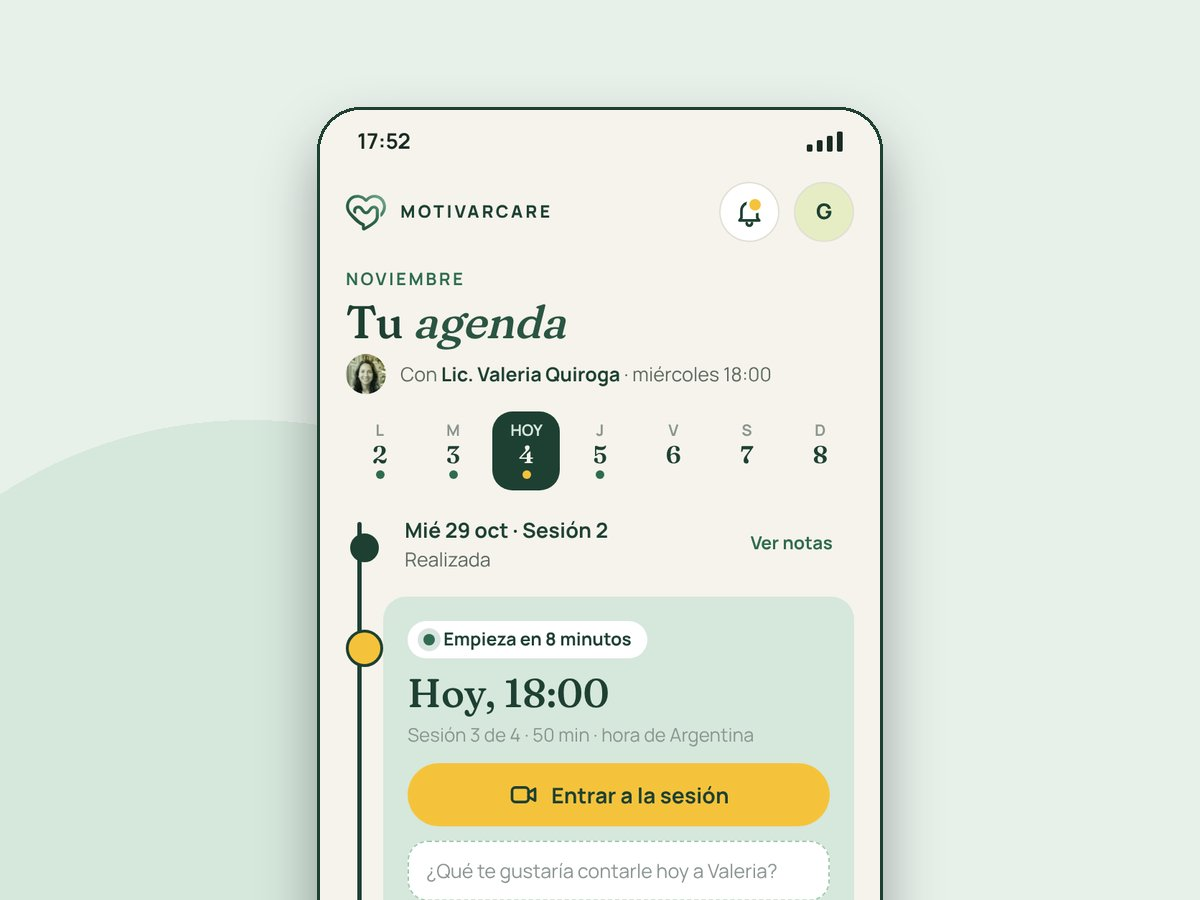
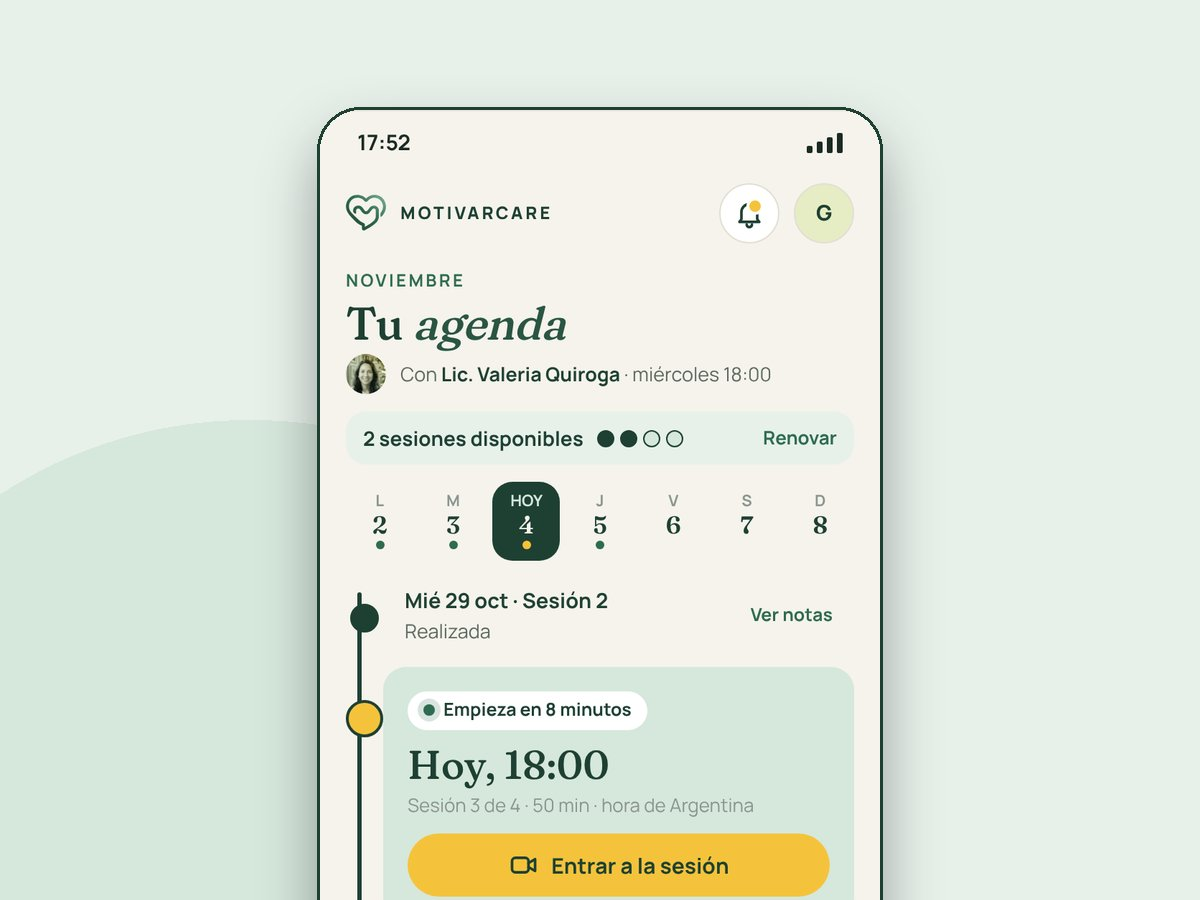
App del usuario: familia 2 con las sesiones disponibles y el Inicio sin profesional
- El Inicio de la agenda suma el contador de sesiones disponibles, con
  "Renovar" (escritorio y teléfono).
- Mockup nuevo: el Inicio de quien todavía no eligió profesional, con el
  camino a la primera sesión y los horarios libres de los sugeridos.

Claude-Session: https://claude.ai/code/session_01WU1DRv73FL9hgnWuzdh2zM

diff --git a/web/public/app-usuario/agenda.html b/web/public/app-usuario/agenda.html
@@ -397,6 +397,58 @@ ul.lista-simple { padding: 0; }
 .ag-fila.hoy .cuando { font: 500 28px/1.05 var(--serif); font-variation-settings: 'SOFT' 60; color: var(--bosque); }
 .ag-mini { font-size: 12.5px; font-weight: 700; color: var(--verde-medio); white-space: nowrap; }
 .nav-tel.cuatro { grid-template-columns: repeat(4, 1fr); }
+.ag-saldo { display: flex; align-items: center; gap: 12px; padding: 8px 16px 8px 14px; border-radius: 16px; background: var(--menta); }
+.ag-saldo .numero { font: 500 32px/1 var(--serif); color: var(--bosque); }
+.ag-saldo b { display: block; font-size: 14px; color: var(--bosque); line-height: 1.2; }
+.ag-saldo .puntos { margin-top: 5px; gap: 5px; }
+.ag-saldo .puntos span { width: 14px; height: 14px; }
+.ag-saldo.vacio-saldo { background: transparent; border: 1.5px dashed var(--salvia-fuerte); }
+.ag-saldo-tel { display: flex; align-items: center; gap: 10px; padding: 8px 12px; border-radius: 14px; background: var(--menta); font-size: 13px; color: var(--tinta-suave); }
+.ag-saldo-tel b { color: var(--bosque); font-size: 14px; }
+.ag-saldo-tel .puntos { margin: 0; gap: 4px; }
+.ag-saldo-tel .puntos span { width: 12px; height: 12px; }
+.ag-pista.cuatro { grid-template-columns: repeat(4, 1fr); }
+.ag-pista.cuatro::before { left: 12.5%; right: 62.5%; }
+.ag-pista.cuatro::after { left: 37.5%; right: 12.5%; }
+.ag-elegir { display: grid; grid-template-columns: 1.75fr 1fr; gap: 18px; margin-top: 18px; }
+.ag-libres { padding: 22px 24px; }
+.ag-libres h2 { font: 600 19px/1.2 var(--serif); font-variation-settings: 'SOFT' 60; color: var(--bosque); }
+.ag-filtros { display: flex; gap: 8px; margin: 14px 0 16px; flex-wrap: wrap; }
+.ag-filtro { display: inline-flex; align-items: center; gap: 8px; height: 38px; padding: 0 14px 0 5px; border-radius: 99px; border: 1px solid var(--linea); background: var(--superficie); font-size: 13.5px; font-weight: 700; color: var(--bosque); }
+.ag-filtro.solo { padding: 0 14px; }
+.ag-filtro.on { background: var(--bosque); color: var(--crema); border-color: var(--bosque); }
+.ag-filtro small { font-weight: 600; color: var(--verde-medio); }
+.ag-cal { display: grid; grid-template-columns: repeat(7, 1fr); gap: 8px; }
+.ag-cal .col { display: flex; flex-direction: column; gap: 6px; }
+.ag-cal .dia { text-align: center; padding-bottom: 6px; border-bottom: 1px solid var(--linea); margin-bottom: 2px; }
+.ag-cal .dia span { display: block; font: 700 11px/1 var(--sans); letter-spacing: .12em; text-transform: uppercase; color: var(--tinta-tenue); }
+.ag-cal .dia b { font: 600 19px/1.3 var(--serif); color: var(--bosque); }
+.ag-slot { display: flex; align-items: center; gap: 6px; padding: 5px 7px 5px 5px; border-radius: 99px; border: 1.5px dashed var(--bosque); background: rgba(255,255,255,.6); font-size: 13px; font-weight: 800; color: var(--bosque); }
+.ag-slot img { width: 22px; height: 22px; border-radius: 50%; object-fit: cover; }
+.ag-slot.sel { background: var(--bosque); color: var(--crema); border-style: solid; box-shadow: 0 0 0 4px rgba(245,195,59,.45); }
+.ag-cal .nada { font-size: 12px; color: var(--tinta-tenue); text-align: center; padding-top: 6px; }
+.ag-eleccion { padding: 22px 24px; display: flex; flex-direction: column; gap: 12px; }
+.ag-eleccion .quien { display: flex; gap: 12px; align-items: center; }
+.ag-eleccion .quien b { display: block; font-size: 17px; color: var(--bosque); }
+.ag-encaja { display: flex; flex-wrap: wrap; gap: 6px; }
+.ag-encaja span { display: inline-flex; align-items: center; gap: 5px; font-size: 12.5px; font-weight: 700; color: var(--bosque); background: var(--superficie); border-radius: 99px; padding: 5px 10px; }
+.ag-dato { display: flex; justify-content: space-between; font-size: 14px; color: var(--tinta-suave); padding: 8px 0; border-top: 1px solid rgba(30,64,51,.12); }
+.ag-dato b { color: var(--bosque); }
+.ag-pasos-tel { display: grid; grid-template-columns: repeat(4, 1fr); gap: 4px; position: relative; }
+.ag-pasos-tel span { display: flex; flex-direction: column; align-items: center; gap: 4px; font-size: 10.5px; font-weight: 700; color: var(--tinta-suave); text-align: center; line-height: 1.2; }
+.ag-pasos-tel i { width: 22px; height: 22px; border-radius: 50%; border: 2px dashed var(--verde-medio); background: var(--crema); display: grid; place-items: center; font-style: normal; font-size: 11px; color: var(--bosque); }
+.ag-pasos-tel .hecha i { background: var(--bosque); border: 2px solid var(--bosque); color: var(--crema); }
+.ag-pasos-tel .ahora i { background: var(--amarillo); border: 2px solid var(--bosque); }
+.ag-pasos-tel .ahora { color: var(--bosque); }
+.ag-pro-slots { border-radius: 16px; background: var(--superficie); border: 1px solid var(--linea); padding: 12px 14px; display: flex; flex-direction: column; gap: 10px; }
+.ag-pro-slots .fila { display: flex; align-items: center; gap: 10px; }
+.ag-pro-slots .fila b { display: block; font-size: 14.5px; color: var(--bosque); }
+.ag-pro-slots .fila .tenue { font-size: 12.5px; }
+.ag-pro-slots .precio { margin-left: auto; font-weight: 800; font-size: 14px; color: var(--bosque); }
+.ag-pro-slots .slots { display: flex; gap: 6px; flex-wrap: wrap; }
+.ag-pro-slots .slots span { padding: 6px 11px; border-radius: 99px; border: 1.5px dashed var(--bosque); font-weight: 800; font-size: 13px; color: var(--bosque); }
+.ag-pro-slots .slots span.sel { background: var(--bosque); color: var(--crema); border-style: solid; }
+
 </style>
 </head>
 <body>
@@ -428,6 +480,118 @@ ul.lista-simple { padding: 0; }
   <symbol id="i-escudo" viewBox="0 0 24 24"><path d="M12 3.5 19 6v5.5c0 4.4-3 7.8-7 9-4-1.2-7-4.6-7-9V6z"/><path d="m9 12 2.2 2.2L15.5 10"/></symbol>
 </svg>
 <section class="lamina">
+<h2>Familia 2 · Inicio en escritorio · todavía sin profesional</h2>
+<div class="marco esc" id="agenda-nuevo-escritorio">
+  <aside class="lateral">
+    <div class="marca"><img src="../landing/img/logo.svg" alt="">MOTIVARCARE</div>
+    <a class="nav-item activo"><svg class="ico"><use href="#i-sesiones"/></svg>Mi agenda</a>
+    <a class="nav-item"><svg class="ico"><use href="#i-profesional"/></svg>Mi profesional</a>
+    <a class="nav-item"><svg class="ico"><use href="#i-diario"/></svg>Diario</a>
+    <a class="nav-item"><svg class="ico"><use href="#i-bienestar"/></svg>Bienestar</a>
+    <div class="pie">
+      <a class="nav-item"><svg class="ico"><use href="#i-ayuda"/></svg>Ayuda</a>
+      <div class="apoyo"><svg class="ico chico"><use href="#i-tel"/></svg><div><b>Líneas de apoyo</b>Si necesitás hablar con alguien ahora, hay líneas gratuitas en tu país.</div></div>
+    </div>
+  </aside>
+  <main class="principal">
+    <div class="barra">
+      <span class="espacio"></span>
+      <span class="boton-icono"><svg class="ico"><use href="#i-campana"/></svg></span>
+      <span class="cuenta"><span class="inicial">G</span>Gastón<svg class="ico chico"><use href="#i-abajo"/></svg></span>
+    </div>
+    <div class="contenido">
+      <div class="ag-cab">
+        <div class="saludo" style="margin:0">
+          <span class="t-fecha">Miércoles 4 de noviembre</span>
+          <h1 class="t1">Tu <em>agenda</em></h1>
+          <p class="bajada">Todavía no tenés sesiones. Empezá eligiendo cuándo podés y con quién.</p>
+        </div>
+        <div class="ag-saldo vacio-saldo"><span class="numero" style="color:var(--tinta-tenue)">0</span><div><b>sesiones disponibles</b><span class="tenue">Cada profesional define su precio</span></div></div>
+      </div>
+
+      <article class="tarjeta ag-recorrido">
+        <div class="ag-rec-cab"><h2>Tu camino a la primera sesión</h2><span class="peq">Paso 2 de 4</span></div>
+        <div class="ag-pista cuatro">
+          <div class="ag-nodo hecha"><span class="ag-punto"><svg class="ico"><use href="#i-check"/></svg></span><b>Contaste qué buscás</b><small>Cuestionario completo</small></div>
+          <div class="ag-nodo hoy"><span class="ag-punto"><svg class="ico"><use href="#i-sesiones"/></svg></span><b>Elegí cuándo y con quién</b><small>Ahora</small><span class="ag-sel"></span></div>
+          <div class="ag-nodo pend"><span class="ag-punto"><svg class="ico"><use href="#i-candado"/></svg></span><b>Reservá y pagá</b><small>Con el monto exacto a la vista</small></div>
+          <div class="ag-nodo pend"><span class="ag-punto"><svg class="ico"><use href="#i-video"/></svg></span><b>Tu primera sesión</b><small>50 min por videollamada</small></div>
+        </div>
+      </article>
+
+      <div class="ag-elegir">
+        <article class="tarjeta ag-libres">
+          <div style="display:flex;justify-content:space-between;align-items:baseline"><h2>Horarios libres de tus profesionales sugeridos</h2><span class="tenue">Hora de Argentina (GMT-3)</span></div>
+          <div class="ag-filtros">
+            <span class="ag-filtro solo on">Todos</span>
+            <span class="ag-filtro"><img class="avatar" src="../landing/img/profesionales/valeria-quiroga.jpg" width="28" height="28" alt="">Valeria <small>92 %</small></span>
+            <span class="ag-filtro"><img class="avatar" src="../landing/img/profesionales/tomas-benitez.jpg" width="28" height="28" alt="">Tomás <small>88 %</small></span>
+            <span class="ag-filtro"><img class="avatar" src="../landing/img/profesionales/monica-aranda.jpg" width="28" height="28" alt="">Mónica <small>85 %</small></span>
+            <span class="ag-filtro solo" style="margin-left:auto">Franja: todas</span>
+          </div>
+          <div class="ag-cal"><div class="col"><div class="dia"><span>Jue</span><b>5</b></div><span class="ag-slot"><img src="../landing/img/profesionales/valeria-quiroga.jpg" alt="">10:00</span><span class="ag-slot sel"><img src="../landing/img/profesionales/valeria-quiroga.jpg" alt="">18:00</span><span class="ag-slot"><img src="../landing/img/profesionales/monica-aranda.jpg" alt="">19:00</span></div><div class="col"><div class="dia"><span>Vie</span><b>6</b></div><span class="ag-slot"><img src="../landing/img/profesionales/tomas-benitez.jpg" alt="">9:00</span><span class="ag-slot"><img src="../landing/img/profesionales/valeria-quiroga.jpg" alt="">17:00</span></div><div class="col"><div class="dia"><span>Sáb</span><b>7</b></div><span class="ag-slot"><img src="../landing/img/profesionales/monica-aranda.jpg" alt="">11:00</span></div><div class="col"><div class="dia"><span>Dom</span><b>8</b></div><span class='nada'>Sin horarios</span></div><div class="col"><div class="dia"><span>Lun</span><b>9</b></div><span class="ag-slot"><img src="../landing/img/profesionales/tomas-benitez.jpg" alt="">8:00</span><span class="ag-slot"><img src="../landing/img/profesionales/valeria-quiroga.jpg" alt="">18:00</span><span class="ag-slot"><img src="../landing/img/profesionales/monica-aranda.jpg" alt="">20:00</span></div><div class="col"><div class="dia"><span>Mar</span><b>10</b></div><span class="ag-slot"><img src="../landing/img/profesionales/valeria-quiroga.jpg" alt="">10:00</span><span class="ag-slot"><img src="../landing/img/profesionales/tomas-benitez.jpg" alt="">19:00</span></div><div class="col"><div class="dia"><span>Mié</span><b>11</b></div><span class="ag-slot"><img src="../landing/img/profesionales/monica-aranda.jpg" alt="">9:00</span><span class="ag-slot"><img src="../landing/img/profesionales/valeria-quiroga.jpg" alt="">18:00</span></div></div>
+        </article>
+        <article class="tarjeta salvia ag-eleccion">
+          <span class="t-fecha">Tu elección</span>
+          <div class="quien"><img class="avatar" src="../landing/img/profesionales/valeria-quiroga.jpg" width="56" height="56" alt=""><div><b>Lic. Valeria Quiroga</b><span class="peq">Psicóloga clínica · Argentina</span></div></div>
+          <div><span class="tenue">Encaja con lo que contaste</span><div class="ag-encaja" style="margin-top:6px"><span>✓ Ansiedad</span><span>✓ Estrés laboral</span><span>✓ Primera vez en terapia</span></div></div>
+          <div><div class="ag-dato"><span>Cuándo</span><b>Jueves 5, 18:00</b></div><div class="ag-dato"><span>Sesión</span><b>50 min · $42.000</b></div></div>
+          <a class="boton primario">Seguir con este horario</a>
+          <span class="tenue" style="font-size:12.5px">En el paso siguiente elegís una sesión o un paquete con Valeria, y ves el monto exacto antes de pagar.</span>
+        </article>
+      </div>
+      <div class="ag-detalle" style="grid-template-columns:1fr 1fr;margin-right:230px">
+        <article class="tarjeta ag-col" style="flex-direction:row;align-items:center;gap:16px"><span class="icono-mancha"><svg class="blob" viewBox="0 0 100 100"><path d="M82 64c-6 18-26 28-44 24S8 68 10 48 28 12 50 12s38 34 32 52z" fill="#2F6B51" opacity=".85"/></svg><svg class="ico"><use href="#i-corazon"/></svg></span><div><h3>¿Es tu primera vez en terapia?</h3><span class="peq">Te contamos cómo es una primera sesión y qué podés esperar.</span><br><a class="enlace" style="margin-top:6px">Leer más</a></div></article>
+        <article class="tarjeta ag-col"><h3>Mientras tanto, ¿cómo estás hoy?</h3><div style="display:flex;align-items:center;gap:14px"><span class="ag-animo"><i style="background:#1E4033"></i><i style="background:#2F6B51"></i><i style="background:#F5C33B"></i><i style="background:#A9CF54"></i><i style="background:#4FA86A"></i></span><span class="privado" style="font-size:12.5px"><svg class="ico chico"><use href="#i-candado"/></svg>Solo lo ves vos</span></div></article>
+      </div>
+    </div>
+  </main>
+  <span class="maca"><img src="../landing/img/maca.svg" alt="">Hablar con Maca</span>
+</div>
+</section>
+<section class="lamina">
+<h2>Familia 2 · Inicio en el teléfono · todavía sin profesional</h2>
+<div class="fila-tel"><div>
+<div class="marco tel" id="agenda-nuevo-telefono">
+  <div class="estado-tel"><span>10:24</span><span class="senal"><i style="height:5px"></i><i style="height:8px"></i><i style="height:11px"></i><i style="height:14px"></i></span></div>
+  <div class="cabecera-tel">
+    <div class="marca"><img src="../landing/img/logo.svg" alt="">MOTIVARCARE</div>
+    <span class="espacio"></span>
+    <span class="boton-icono"><svg class="ico"><use href="#i-campana"/></svg></span>
+    <span class="inicial">G</span>
+  </div>
+  <div class="cuerpo-tel" style="gap:12px">
+    <div class="saludo" style="margin:0;gap:4px">
+      <span class="t-fecha">Noviembre</span>
+      <h1 class="t1">Tu <em>agenda</em></h1>
+      <p class="bajada" style="font-size:14.5px">Elegí cuándo podés y con quién empezar.</p>
+    </div>
+    <div class="ag-pasos-tel"><span class="hecha"><i>✓</i>Contaste qué buscás</span><span class="ahora"><i>2</i>Elegí cuándo y con quién</span><span><i>3</i>Reservá y pagá</span><span><i>4</i>Primera sesión</span></div>
+    <div class="ag-tira">
+      <span>J<b>5</b><i class="on"></i></span><span>V<b>6</b><i class="on"></i></span><span>S<b>7</b><i class="on"></i></span><span>D<b>8</b><i></i></span><span>L<b>9</b><i class="on"></i></span><span>M<b>10</b><i class="on"></i></span><span>M<b>11</b><i class="on"></i></span>
+    </div>
+    <span class="t-fecha" style="margin-top:2px">Jueves 5 · hora de Argentina</span>
+    <div class="ag-pro-slots">
+      <div class="fila"><img class="avatar" src="../landing/img/profesionales/valeria-quiroga.jpg" width="36" height="36" alt=""><div><b>Lic. Valeria Quiroga</b><span class="tenue">Ansiedad · 92 % compatible</span></div><span class="precio">$42.000</span></div>
+      <div class="slots"><span>10:00</span><span class="sel">18:00</span></div>
+    </div>
+    <div class="ag-pro-slots">
+      <div class="fila"><img class="avatar" src="../landing/img/profesionales/monica-aranda.jpg" width="36" height="36" alt=""><div><b>Lic. Mónica Aranda</b><span class="tenue">Duelo y cambios · 85 %</span></div><span class="precio">$48.000</span></div>
+      <div class="slots"><span>19:00</span></div>
+    </div>
+    <a class="boton primario" style="width:calc(100% - 64px)">Seguir: jue 5, 18:00 con Valeria</a>
+  </div>
+  <span class="maca redonda"><img src="../landing/img/maca.svg" alt="Hablar con Maca"></span>
+  <nav class="nav-tel cuatro">
+    <a class="activo"><span class="pastilla"><svg class="ico"><use href="#i-sesiones"/></svg></span>Agenda</a>
+    <a><span class="pastilla"><svg class="ico"><use href="#i-profesional"/></svg></span>Profesional</a>
+    <a><span class="pastilla"><svg class="ico"><use href="#i-diario"/></svg></span>Diario</a>
+    <a><span class="pastilla"><svg class="ico"><use href="#i-bienestar"/></svg></span>Bienestar</a>
+  </nav>
+</div>
+</div></div>
+</section>
+<section class="lamina">
 <h2>Familia 2 · Inicio en escritorio · la agenda manda (con profesional, sesión hoy)</h2>
 <div class="marco esc" id="agenda-escritorio">
   <aside class="lateral">
@@ -458,7 +622,7 @@ ul.lista-simple { padding: 0; }
       </div>
 
       <article class="tarjeta ag-recorrido">
-        <div class="ag-rec-cab"><h2>Tu paquete de 4 sesiones con Valeria</h2><span class="peq">2 realizadas · hoy la tercera · 1 reservada</span></div>
+        <div class="ag-rec-cab" style="align-items:center"><div><h2>Tu paquete de 4 sesiones con Valeria</h2><span class="peq">2 realizadas · hoy la tercera · 1 reservada</span></div><div class="ag-saldo"><span class="numero">2</span><div><b>sesiones disponibles</b><div class="puntos"><span class="usada"></span><span class="usada"></span><span></span><span></span></div></div><a class="enlace" style="margin-left:8px">Renovar</a></div></div>
         <div class="ag-pista">
           <div class="ag-nodo hecha"><span class="ag-punto"><svg class="ico"><use href="#i-check"/></svg></span><b>Mié 22 oct</b><small>Sesión 1 · realizada</small></div>
           <div class="ag-nodo hecha"><span class="ag-punto"><svg class="ico"><use href="#i-check"/></svg></span><b>Mié 29 oct</b><small>Sesión 2 · realizada</small></div>
@@ -523,6 +687,7 @@ ul.lista-simple { padding: 0; }
       <h1 class="t1">Tu <em>agenda</em></h1>
       <span class="ag-tel-pro"><img class="avatar" src="../landing/img/profesionales/valeria-quiroga.jpg" width="28" height="28" alt=""><span>Con <b>Lic. Valeria Quiroga</b> · miércoles 18:00</span></span>
     </div>
+    <div class="ag-saldo-tel"><b>2 sesiones disponibles</b><div class="puntos"><span class="usada"></span><span class="usada"></span><span></span><span></span></div><a class="enlace" style="margin-left:auto;font-size:13px">Renovar</a></div>
     <div class="ag-tira">
       <span>L<b>2</b><i class="on"></i></span><span>M<b>3</b><i class="on"></i></span><span class="hoy">HOY<b>4</b><i class="ses"></i></span><span>J<b>5</b><i class="on"></i></span><span>V<b>6</b><i></i></span><span>S<b>7</b><i></i></span><span>D<b>8</b><i></i></span>
     </div>
@@ -533,7 +698,6 @@ ul.lista-simple { padding: 0; }
         <span class="cuando">Hoy, 18:00</span>
         <span class="tenue" style="margin-top:-6px">Sesión 3 de 4 · 50 min · hora de Argentina</span>
         <a class="boton primario" style="width:100%"><svg class="ico"><use href="#i-video"/></svg>Entrar a la sesión</a>
-        <span class="ag-pregunta" style="background:var(--superficie)">¿Qué te gustaría contarle hoy a Valeria?</span>
       </div>
       <div class="ag-fila reservada"><span><b>Mié 11 nov · Sesión 4</b>Reservada · 18:00</span><span class="ag-mini">Detalle</span></div>
       <div class="ag-fila pend" style="margin-right:64px"><span><b>Fin de tu paquete</b>Renovar 4 sesiones con Valeria</span></div>

diff --git a/web/public/app-usuario/propuesta/agenda/index.html b/web/public/app-usuario/propuesta/agenda/index.html
@@ -30,7 +30,7 @@
       <span class="etiqueta">Familia 2 · La sesión: antes, durante y después</span>
       <h1>La agenda y la planificación de sesiones</h1>
       <p class="bajada">La agenda de sesiones, siempre con un único profesional, es la pantalla principal y ordena toda la experiencia: el recorrido del paquete, la sesión de hoy, lo que sigue y lo que la persona hace entre sesiones. Ayuda a sostener un ritmo de terapia sin pensar en la logística.</p>
-      <div class="datos"><span class="chip chip--curso">En curso</span><span class="chip chip--dato">2 pantallas hechas · 4 por hacer</span></div>
+      <div class="datos"><span class="chip chip--curso">En curso</span><span class="chip chip--dato">3 pantallas hechas · 3 por hacer</span></div>
     </div>
   </div>
 
@@ -56,12 +56,22 @@
     <p class="subtitulo">Hechas</p>
     <div class="hechas">
       <article class="hecha">
+        <figure><img src="/app-usuario/propuesta/agenda/img/c3-agenda-nuevo-escritorio.jpg" alt="Inicio · todavía sin profesional, en escritorio" loading="lazy"><figcaption>Escritorio · 1440 × 1024</figcaption></figure>
+        <figure><img src="/app-usuario/propuesta/agenda/img/c4-agenda-nuevo-telefono.jpg" alt="Inicio · todavía sin profesional, en el teléfono" loading="lazy"><figcaption>Teléfono · 390 × 844</figcaption></figure>
+        <div class="texto">
+          <span class="chip">Mockup hecho</span>
+          <h3>Inicio · todavía sin profesional</h3>
+          <p>&quot;Tu camino a la primera sesión&quot; en cuatro pasos y, debajo, los horarios libres de los profesionales sugeridos en una semana. La persona elige cuándo y con quién, y ve el precio y por qué encaja antes de seguir.</p>
+          <a class="boton" href="/app-usuario/agenda.html#agenda-nuevo-escritorio">Ver en tamaño real →</a>
+        </div>
+      </article>
+      <article class="hecha">
         <figure><img src="/app-usuario/propuesta/agenda/img/c1-agenda-escritorio.jpg" alt="Inicio · la agenda manda, en escritorio" loading="lazy"><figcaption>Escritorio · 1440 × 1024</figcaption></figure>
         <figure><img src="/app-usuario/propuesta/agenda/img/c2-agenda-telefono.jpg" alt="Inicio · la agenda manda, en el teléfono" loading="lazy"><figcaption>Teléfono · 390 × 844</figcaption></figure>
         <div class="texto">
           <span class="chip">Mockup hecho</span>
           <h3>Inicio · la agenda manda</h3>
-          <p>Arriba, el recorrido del paquete con Valeria: las sesiones hechas, la de hoy, la reservada, el fin del paquete y el próximo horario libre. Debajo, el detalle del momento elegido (entrar, qué llevar y qué sigue) y la semana con el ánimo y los ejercicios en sus días.</p>
+          <p>Arriba, el recorrido del paquete con Valeria (las sesiones hechas, la de hoy, la reservada, el fin del paquete y el próximo horario libre) y las sesiones disponibles, con &quot;Renovar&quot;. Debajo, el detalle del momento elegido y la semana con el ánimo y los ejercicios en sus días.</p>
           <a class="boton" href="/app-usuario/agenda.html#agenda-escritorio">Ver en tamaño real →</a>
         </div>
       </article>
@@ -79,12 +89,6 @@
     <p class="nota" style="margin:20px 0 0">Navegación de esta familia: Mi agenda, Mi profesional, Diario y Bienestar. No hay un Inicio aparte: la agenda es la pantalla principal y siempre es con un único profesional.</p>
     <p class="subtitulo">Por hacer</p>
     <div class="grilla">
-      <article class="pendiente">
-        <div class="marcos" aria-hidden="true"><span class="m esc"></span><span class="m tel"></span></div>
-        <h3>Inicio · todavía sin profesional</h3>
-        <p>Cómo se ve la agenda antes de elegir profesional: los pasos para empezar y los horarios de los sugeridos.</p>
-        <span class="estado">Escritorio y teléfono · por hacer</span>
-      </article>
       <article class="pendiente">
         <div class="marcos" aria-hidden="true"><span class="m esc"></span><span class="m tel"></span></div>
         <h3>Inicio · falta más de un día</h3>
